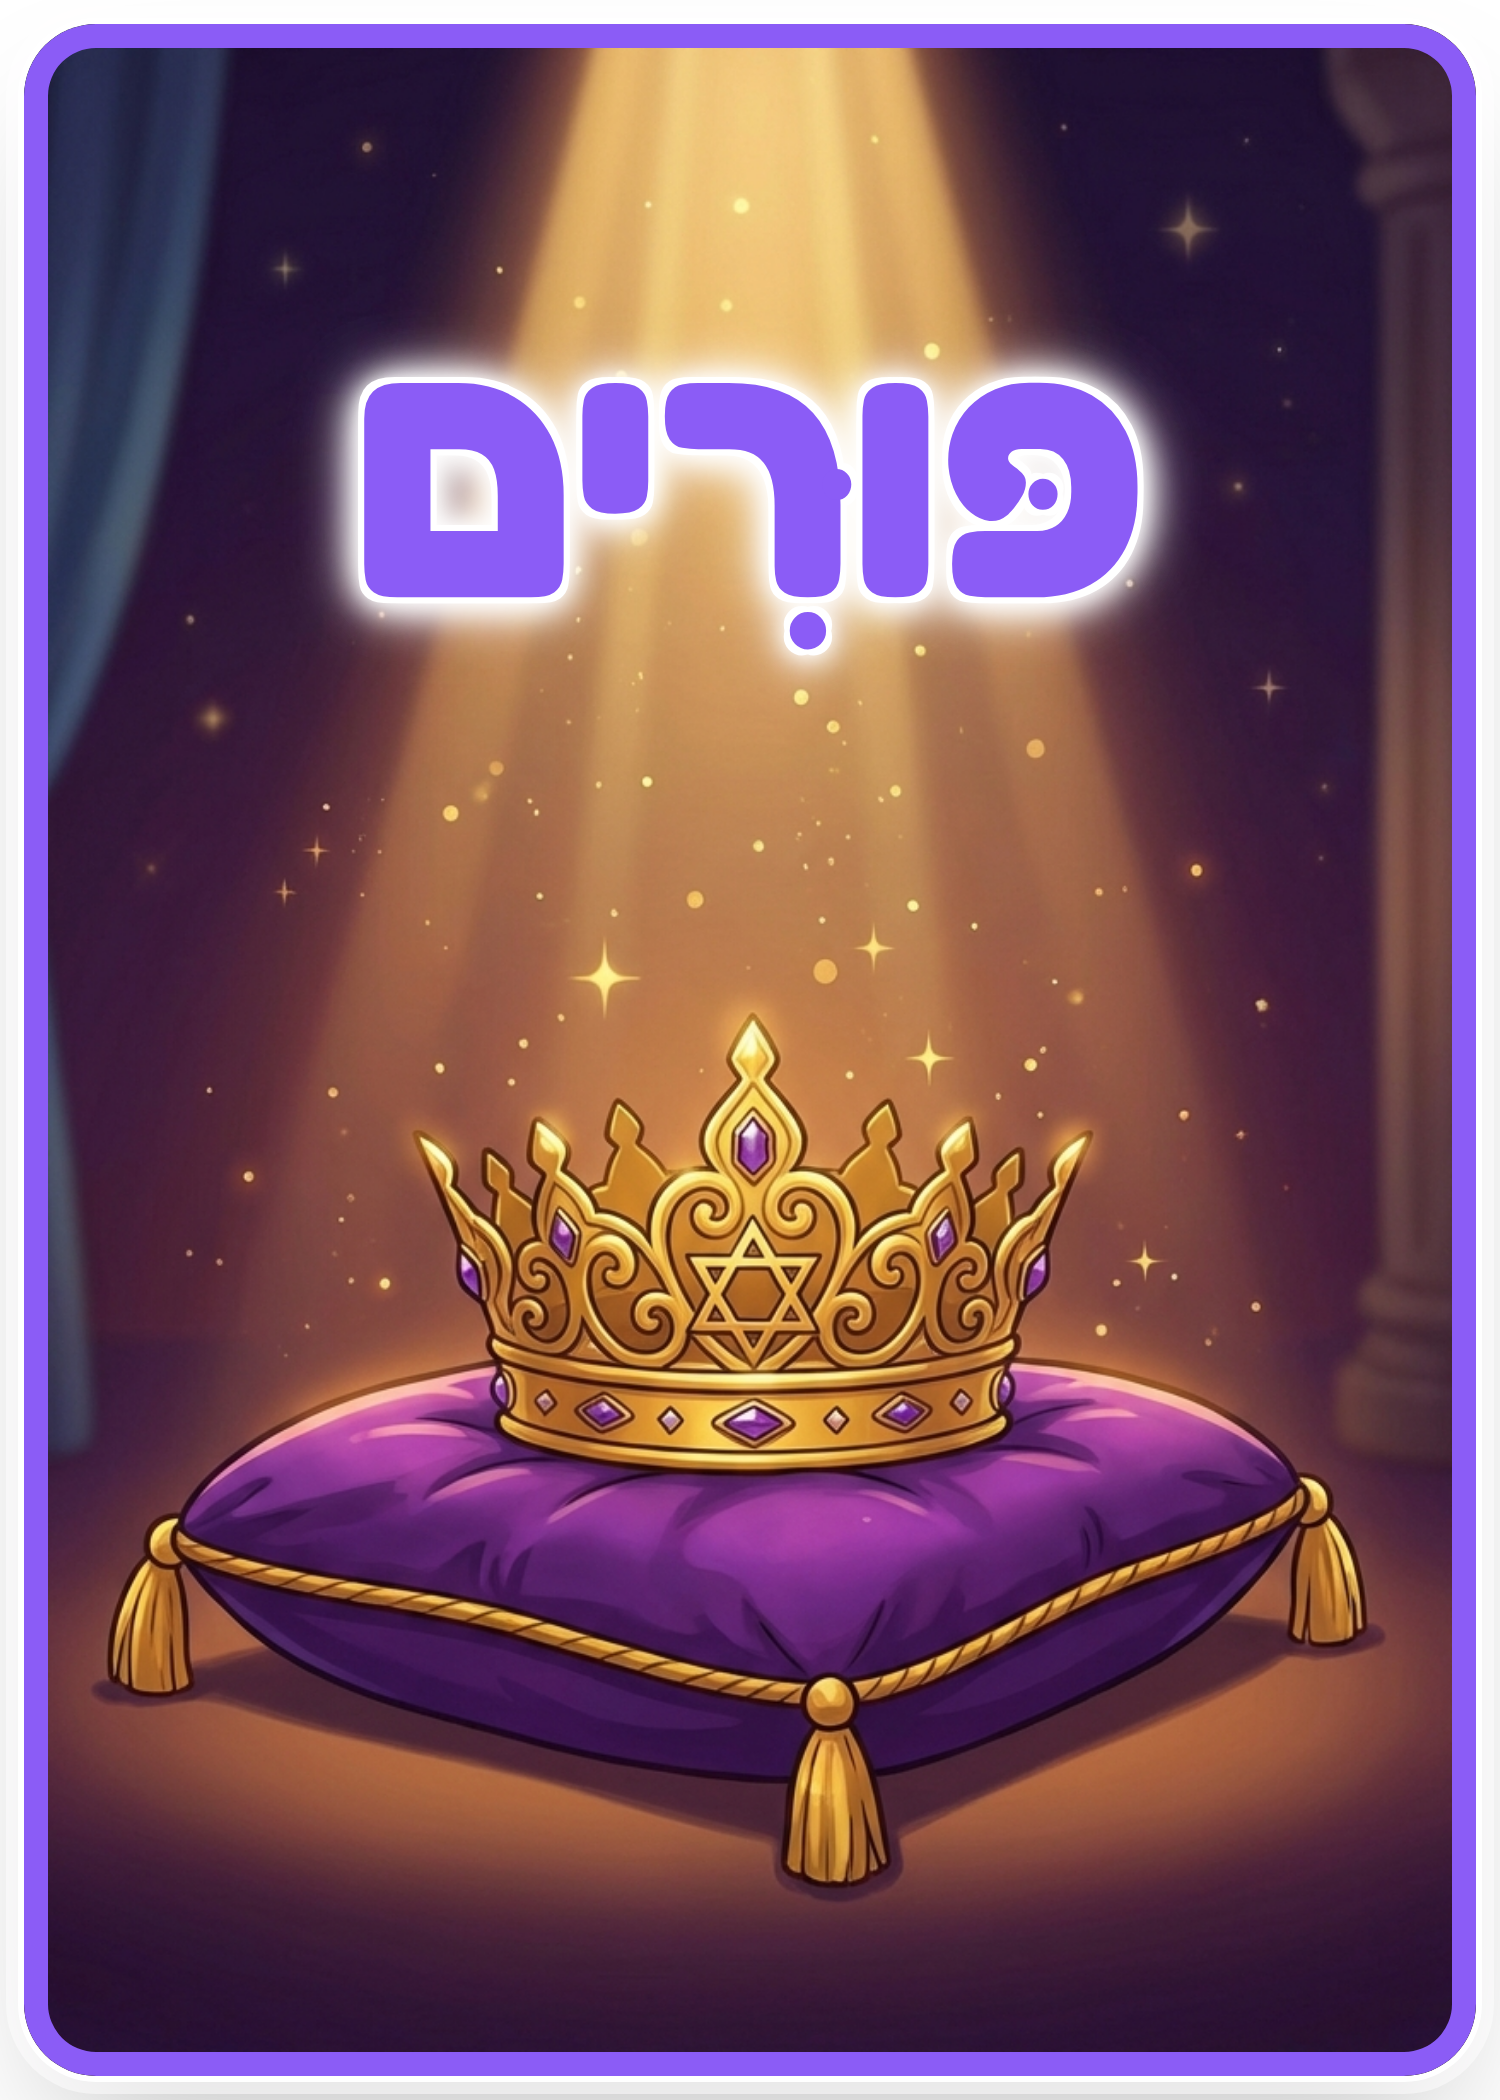
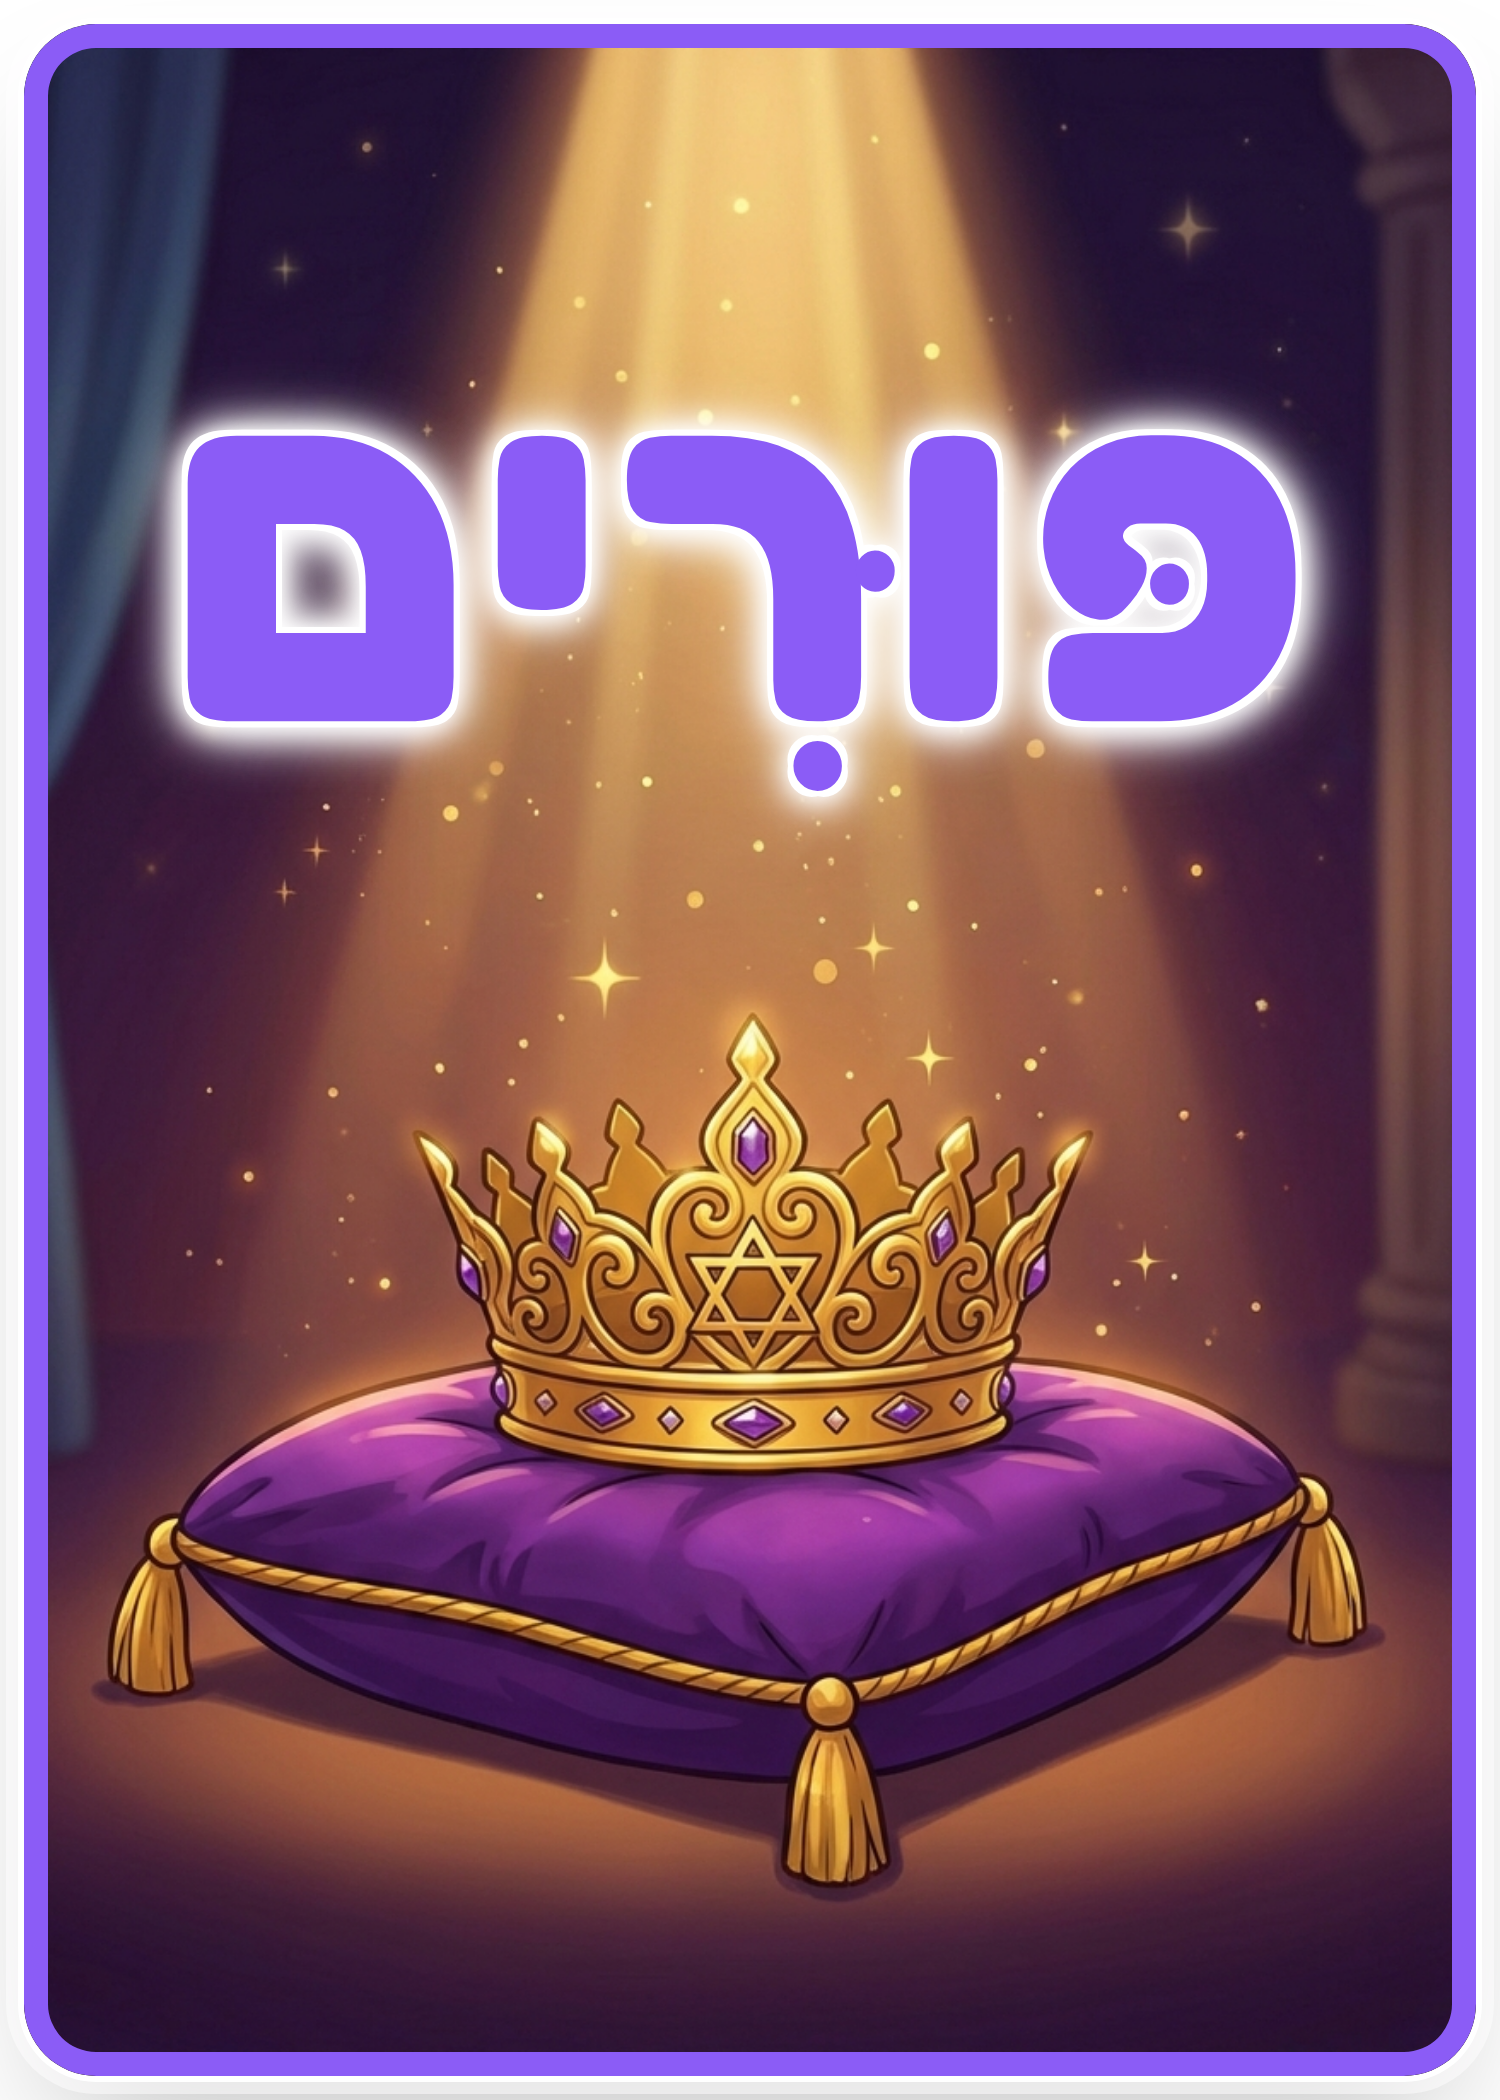
Fix anchor title letter-spacing, regenerate story_3 with clear title zone
Anchor: letterSpacing 0.4em so shuruq dot in vav is fully visible.
Story 3: moved thought bubble below title zone, added mordechai to
characters_in_scene, reinforced Haman identity anchors in lean prompt.

Changed region(s): [[0.092, 0.1548, 0.8893, 0.4024]]

diff --git a/card-designer/components/cards/AnchorCard.tsx b/card-designer/components/cards/AnchorCard.tsx
@@ -57,14 +57,15 @@ export function AnchorCard({ card, deckId, config, onConfigChange }: AnchorCardP
                 <DraggableElement id="anchor-title" config={activeConfig} onUpdate={handlePositionUpdate} className="pointer-events-auto w-full">
                     <div className="drop-shadow-[0_2px_4px_rgba(255,255,255,0.8)]">
                          <FitText
-                            maxSize={120}
+                            maxSize={160}
                             minSize={80}
-                            padding={16}
+                            padding={12}
                             className="font-black font-hebrew"
                             style={{
                                 color: borderColor,
                                 WebkitTextStroke: '1.5px white',
                                 paintOrder: 'stroke fill',
+                                letterSpacing: '0.4em',
                                 textShadow: '0 0 6px white, 0 0 12px white, 0 0 20px white, 2px 2px 0px white, -2px -2px 0px white, 2px -2px 0px white, -2px 2px 0px white',
                             }}
                          >
